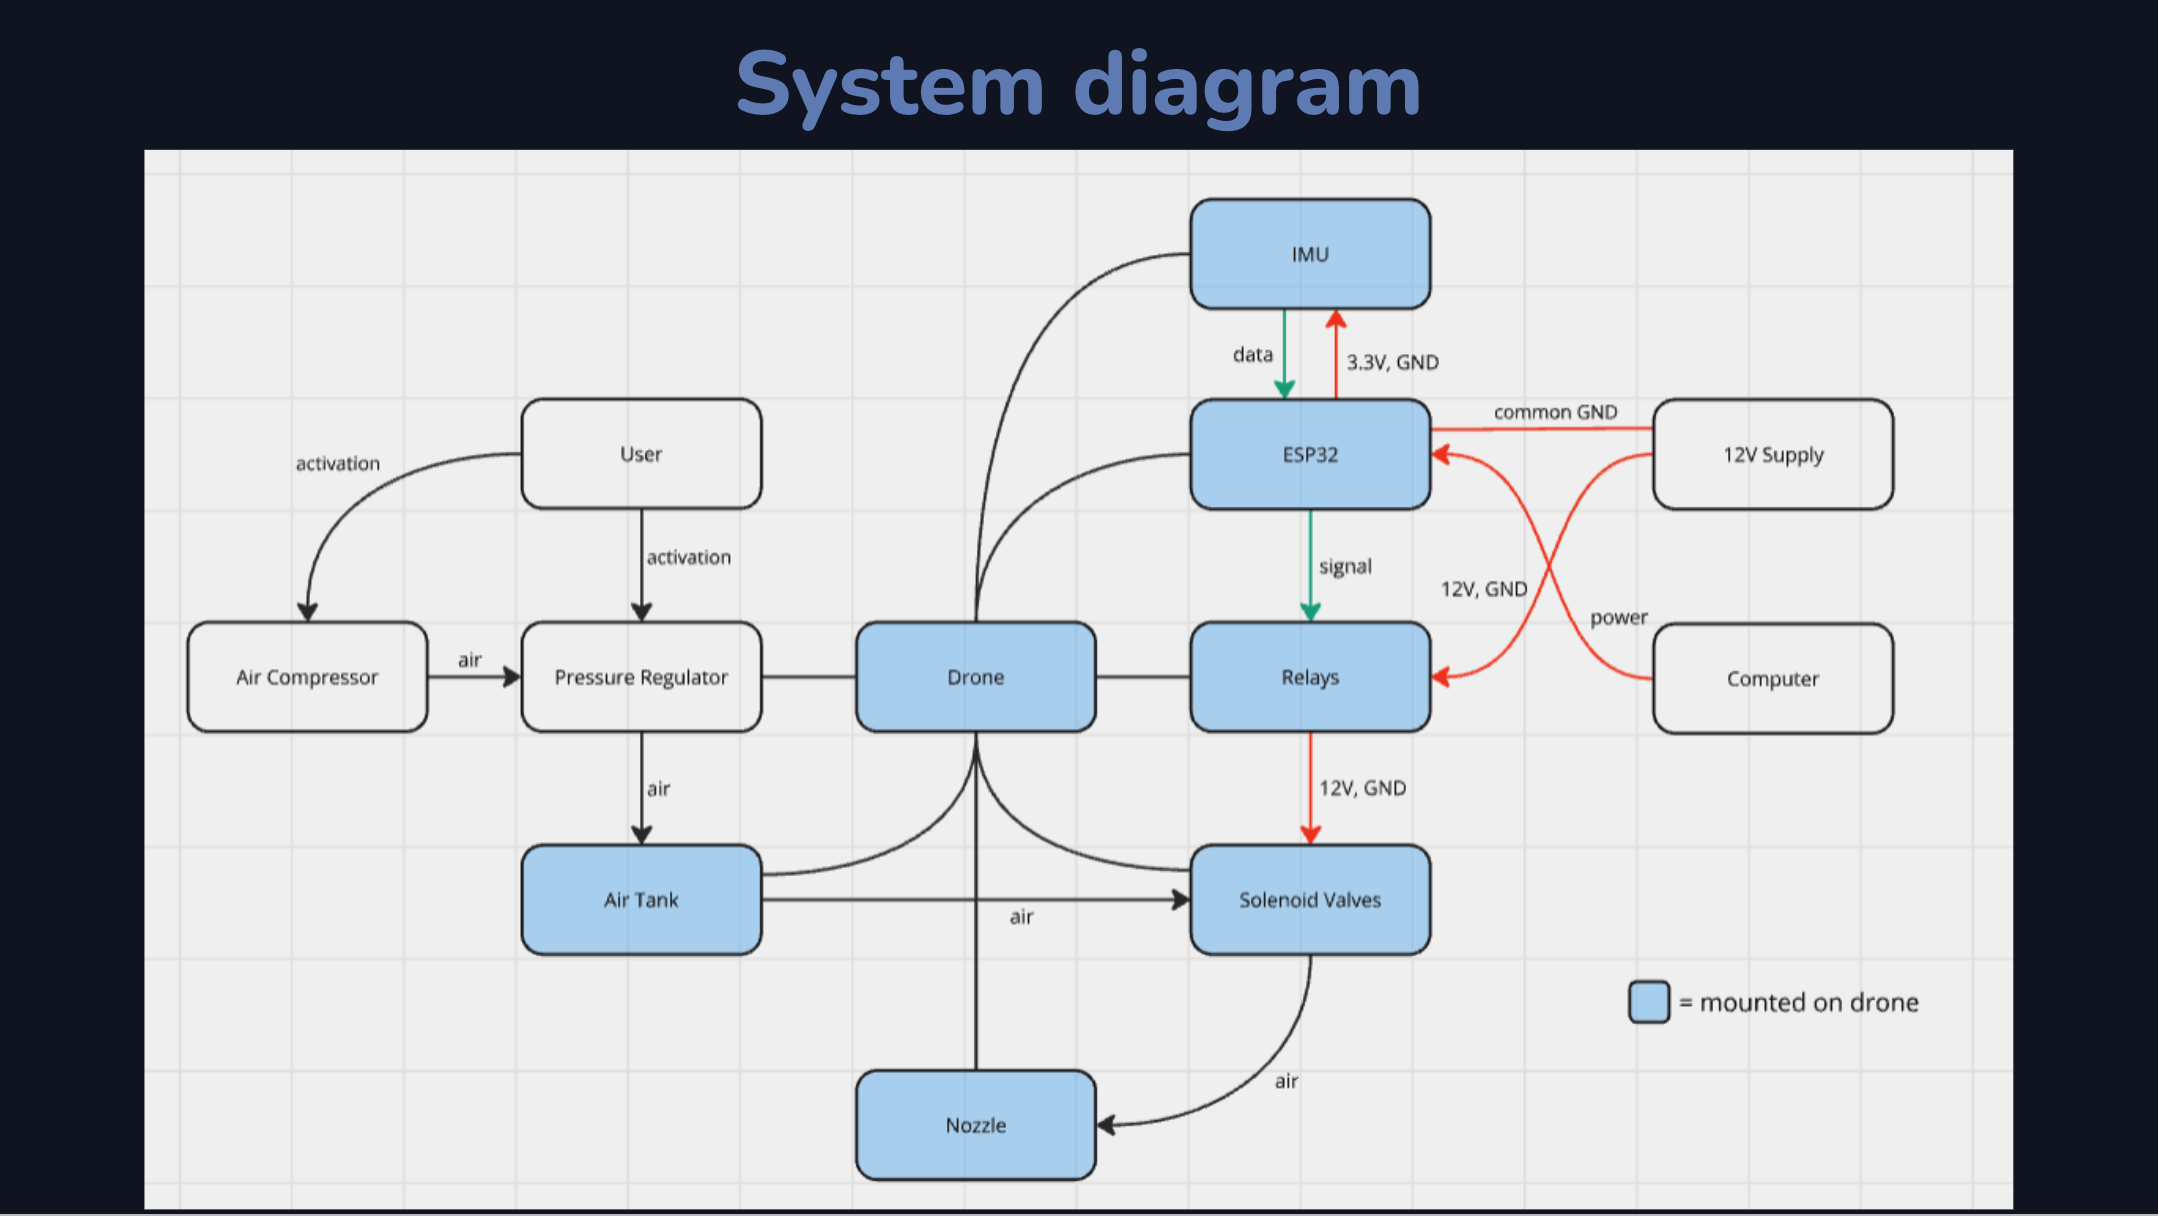
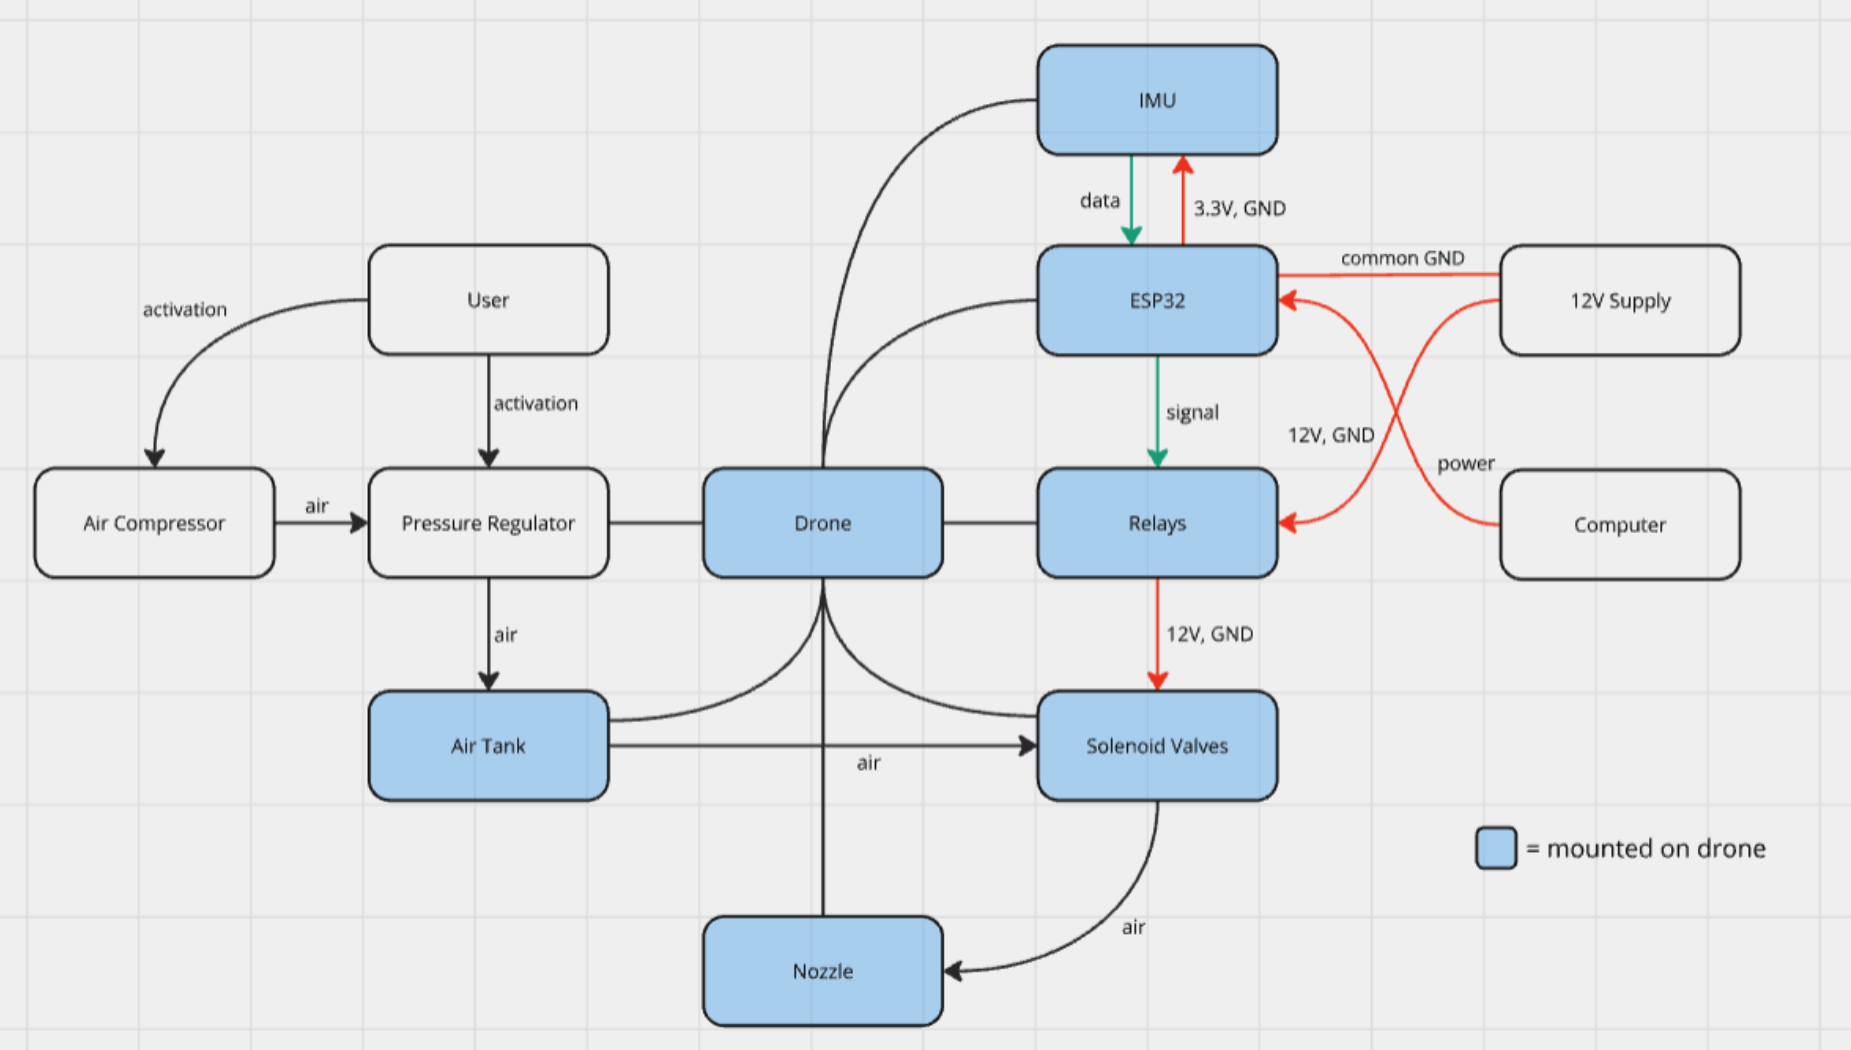
Add txt and fixed diagram on index

diff --git a/thrusters/index.html b/thrusters/index.html
@@ -52,36 +52,49 @@
 			<article class="post featured">
 				<header class="major">
 					<h2>Project Overview</h2>
-					<p>Ghost Thrusters is a PIE project aimed at developing a self-stabilizing drone using a
+					<p>Ghost Thrusters is the final project for class 'principles of integrated engineering (PIE)' aimed
+						at developing a self-stabilizing drone using a
 						reaction-control system.</p>
 				</header>
 				<p>
 					The goal of this project is to create a drone capable of maintaining its equilibrium position during
-					flight through
-					the use of pressurized air thrusters. Our focus was the stablization capabilities, so we designed a
-					non-flight capable
-					drone that when suspended in the air by strings, self adjusts its position.
+					flight through the use of pressurized air thrusters. Our focus was primarily on the stabilization
+					capabilities, so we designed a non-flight-capable drone that, when suspended in the air by strings,
+					self-adjusts its position. This approach allowed us to concentrate on the balance and control
+					systems without the added complexity of flight, providing a solid foundation for future development.
 				</p>
 				<p>
-					Throughout the development process, we have successfully integrated an Inertial Measurement Unit
-					(IMU) into our prototype. This integration
-					allows for real-time monitoring of the drone's orientation, providing crucial data for achieving
-					dynamic balance. Our testing phase has
-					demonstrated significant progress, showcasing the ability of our drone to adjust thrust based on
-					angular displacement effectively.
+					The development process involved a combination of electrical, mechanical, and software systems, each
+					contributing to the drone's ability to stabilize itself. The electrical system was built around an
+					ESP32 microcontroller, which interfaced with relays and solenoid valves to control the thrusters. An
+					Inertial Measurement Unit (IMU) was integrated to measure the drone's orientation and speed,
+					providing real-time data critical for stabilization. On the mechanical side, we designed the
+					structure of the drone to support the thrusters and accounted for the physics required to produce
+					the precise amount of thrust needed for balance. This involved calculating forces and understanding
+					the dynamics of airflow from the thrusters.
 				</p>
 				<p>
-					We successfully implemented a system made up of mechanical, electrical, firmware, and software
-					components to reach our goal, as well
-					as develop different methods of testing the different system elements.
+					In the software domain, we developed code to parse IMU readings using I2C communication and
+					implemented PID control loops. These loops processed the IMU data to adjust thrust and
+					counter-thrust, ensuring the drone maintained its equilibrium. Before constructing the four-thruster
+					jig, we simulated the entire system in Python to test and refine the code. The simulation helped us
+					identify potential issues and fine-tune the PID parameters, accelerating the development process and
+					ensuring smooth integration of all components.
+				</p>
+				<p>
+					By integrating the electrical, mechanical, and software systems, we created a cohesive prototype.
+					The ESP32 controlled the relays and valves, while the IMU provided orientation data to adjust the
+					thrusters. The mechanical design ensured proper thrust positioning, and Python simulations validated
+					the code. This integration allowed the drone to stabilize itself when suspended in the air.
 				</p>
 			</article>
 
 			<section>
-				<div style="text-align:center;">
-					<img src="images/system-diagram.png" alt="Project overview diagram"
-						style="max-width:100%; height:auto;">
-					<p>Diagram illustrating the Ghost Thrusters system interactions</p>
+				<header class="major">
+					<h1>System Diagram</h1>
+				</header>
+				<div class="box alt">
+					<div><span class="image fit"><img src="images/system-diagram.png" alt="" /></span> </div>
 				</div>
 			</section>
 
